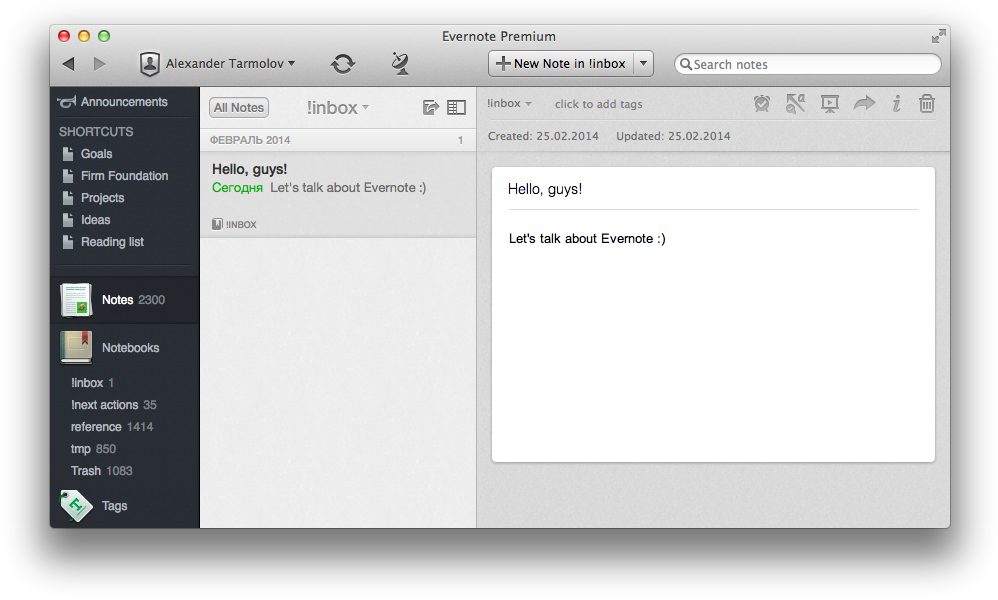
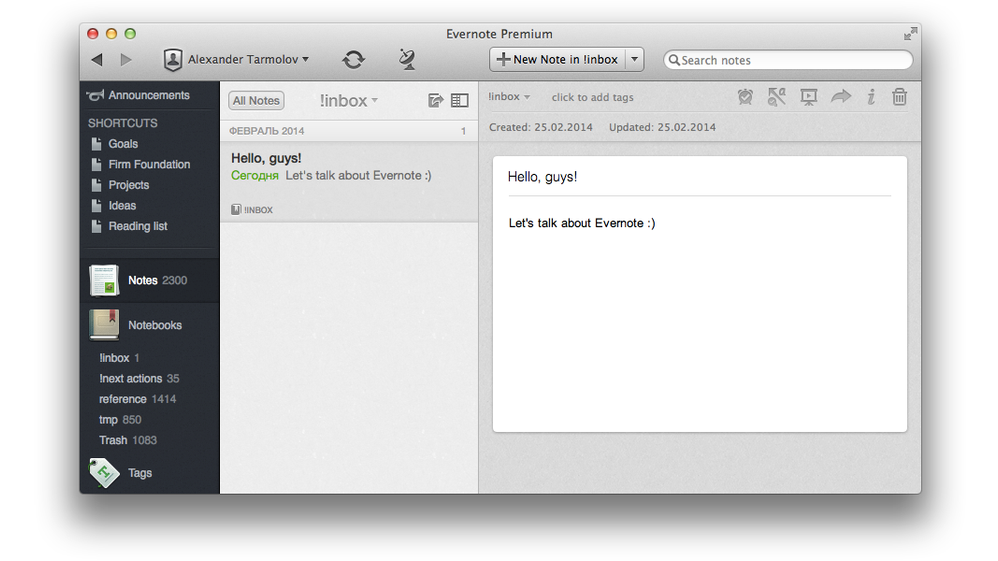
fix: crop thumbnails to 16:9 with letterbox

diff --git a/blowfish/categories/blog/index.html b/blowfish/categories/blog/index.html
@@ -579,7 +579,7 @@
   
     <div class="flex-none relative overflow-hidden  thumbnail">
       <img
-        src="/tarmolov.github.com/blowfish/posts/how-i-use-evernote/thumbnail_hu_c21b8d9c337a3caa.png"
+        src="/tarmolov.github.com/blowfish/posts/how-i-use-evernote/thumbnail_hu_57fce764e24b3e82.png"
         role="presentation"
         loading="lazy"
         decoding="async"
@@ -731,7 +731,7 @@
   
     <div class="flex-none relative overflow-hidden  thumbnail">
       <img
-        src="/tarmolov.github.com/blowfish/posts/bem-calendar/thumbnail_hu_cfeb213e4d6cd665.png"
+        src="/tarmolov.github.com/blowfish/posts/bem-calendar/thumbnail_hu_6e10fa0adce6fcb7.png"
         role="presentation"
         loading="lazy"
         decoding="async"

diff --git a/blowfish/index.html b/blowfish/index.html
@@ -557,7 +557,7 @@
   
     <div class="flex-none relative overflow-hidden  thumbnail">
       <img
-        src="/tarmolov.github.com/blowfish/posts/how-i-use-evernote/thumbnail_hu_c21b8d9c337a3caa.png"
+        src="/tarmolov.github.com/blowfish/posts/how-i-use-evernote/thumbnail_hu_57fce764e24b3e82.png"
         role="presentation"
         loading="lazy"
         decoding="async"
@@ -706,7 +706,7 @@
   
     <div class="flex-none relative overflow-hidden  thumbnail">
       <img
-        src="/tarmolov.github.com/blowfish/posts/bem-calendar/thumbnail_hu_cfeb213e4d6cd665.png"
+        src="/tarmolov.github.com/blowfish/posts/bem-calendar/thumbnail_hu_6e10fa0adce6fcb7.png"
         role="presentation"
         loading="lazy"
         decoding="async"

diff --git a/blowfish/posts/index.html b/blowfish/posts/index.html
@@ -598,7 +598,7 @@
   
     <div class="flex-none relative overflow-hidden  thumbnail">
       <img
-        src="/tarmolov.github.com/blowfish/posts/how-i-use-evernote/thumbnail_hu_c21b8d9c337a3caa.png"
+        src="/tarmolov.github.com/blowfish/posts/how-i-use-evernote/thumbnail_hu_57fce764e24b3e82.png"
         role="presentation"
         loading="lazy"
         decoding="async"
@@ -754,7 +754,7 @@
   
     <div class="flex-none relative overflow-hidden  thumbnail">
       <img
-        src="/tarmolov.github.com/blowfish/posts/bem-calendar/thumbnail_hu_cfeb213e4d6cd665.png"
+        src="/tarmolov.github.com/blowfish/posts/bem-calendar/thumbnail_hu_6e10fa0adce6fcb7.png"
         role="presentation"
         loading="lazy"
         decoding="async"
